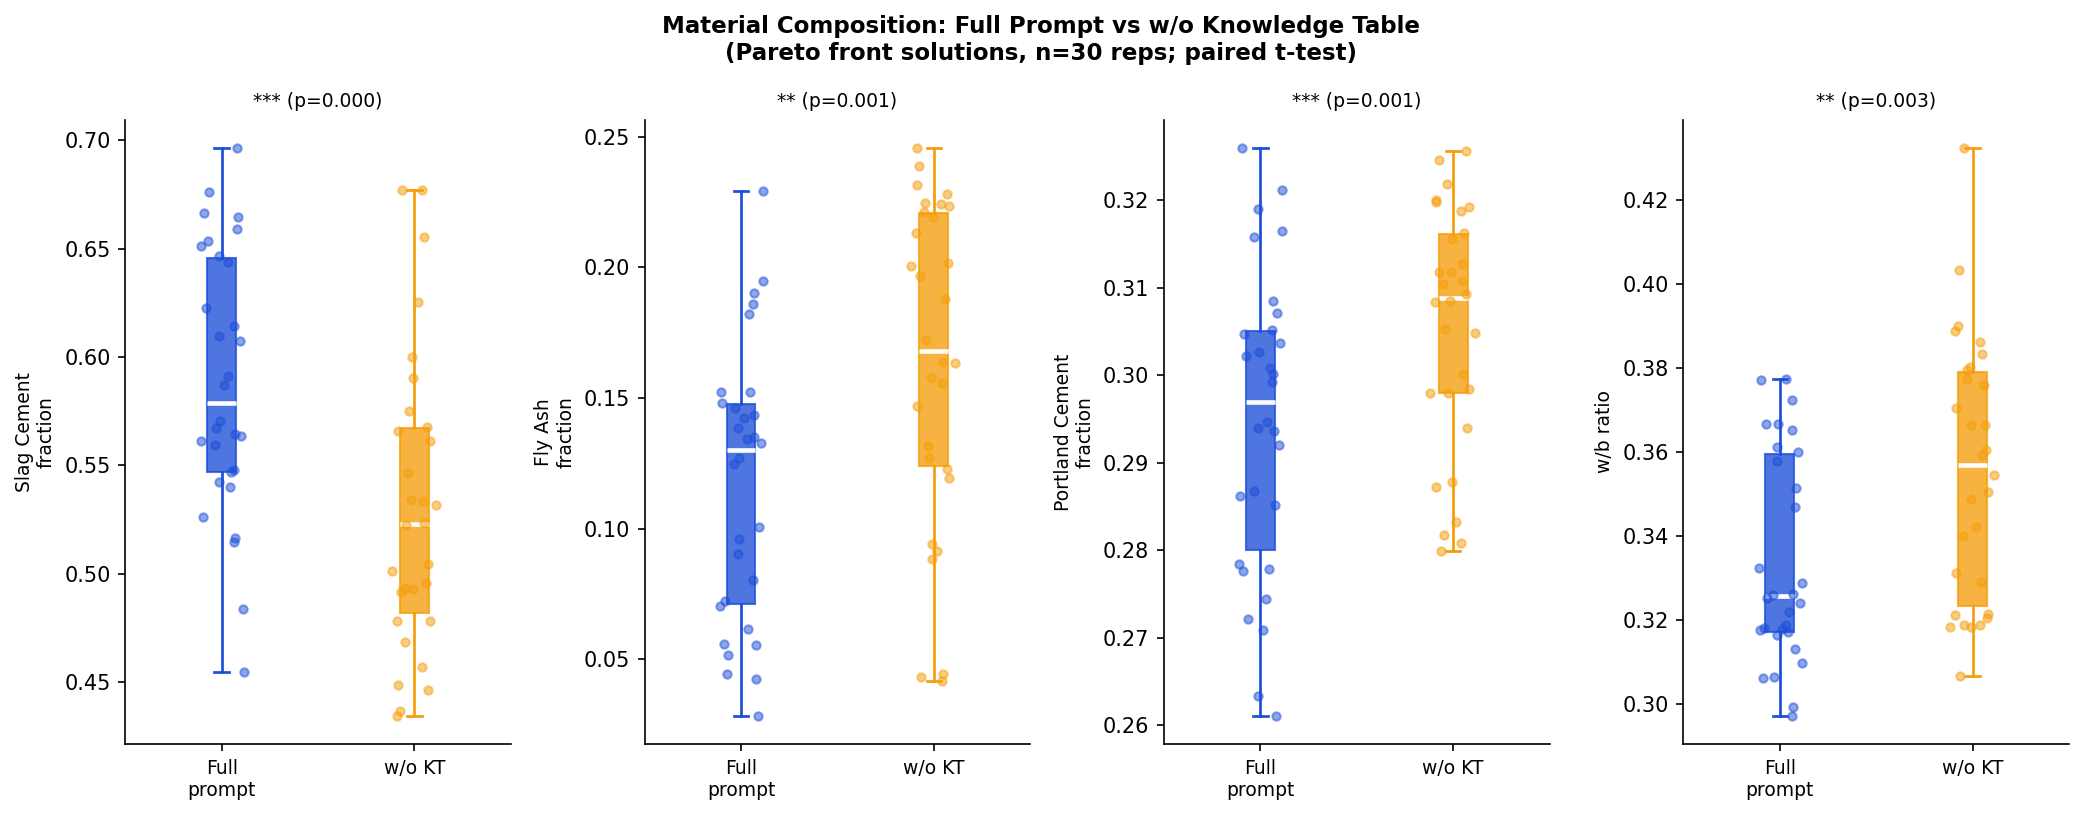
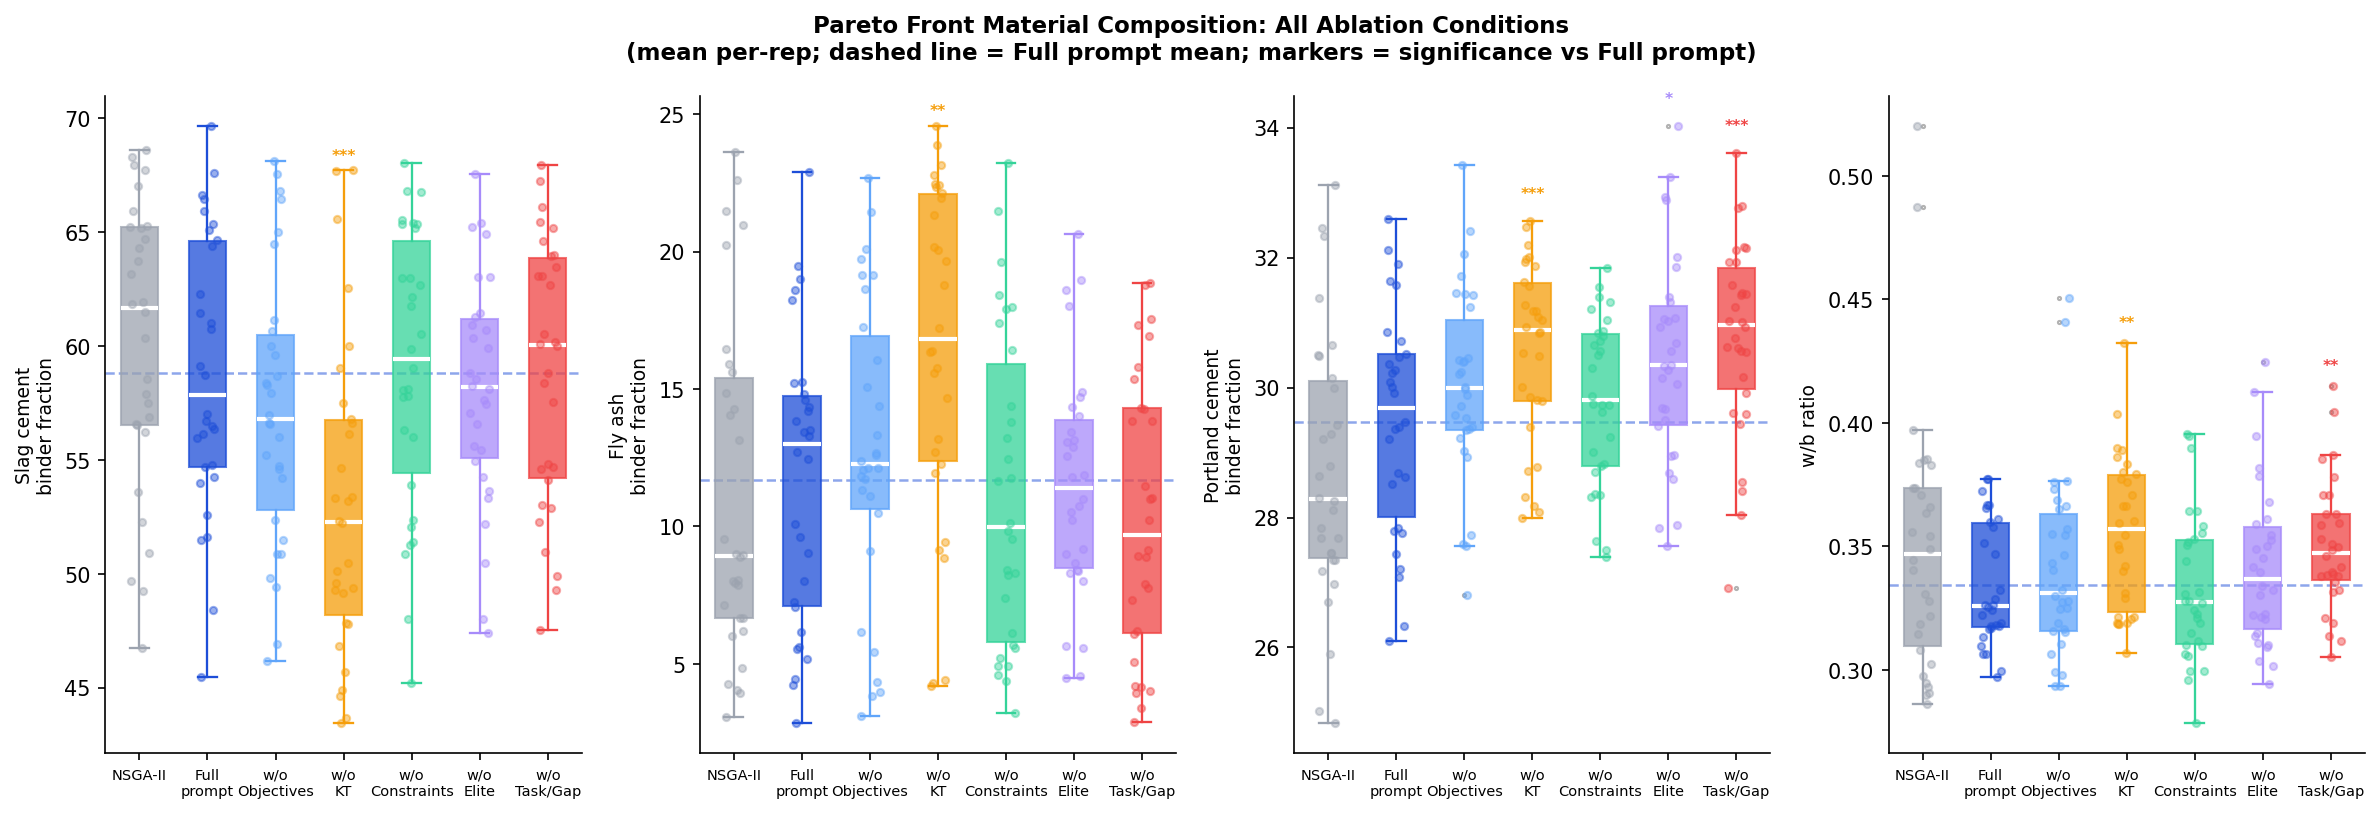
Expand Step 4.2 composition table to all ablation conditions
README: add all 7 conditions (NSGA-II, full, w/o obj/kt/con/elite/task)
to the material composition table with significance vs full prompt.
analyze_step42.py: regenerate composition figure as grouped box plot
showing SC%, FA%, PC%, w/b for every condition side by side.

diff --git a/analyze_step42.py b/analyze_step42.py
@@ -119,35 +119,37 @@ print(df_table.to_string(index=False))
 print(f"Saved step42_dhv_table.csv\n")
 
 # ══════════════════════════════════════════════════════════════════════════════
-# 2. Material composition: full vs w/o KT
+# 2. Material composition: all conditions
 # ══════════════════════════════════════════════════════════════════════════════
-MIX_VARS   = ["PC", "FA", "SC", "FAGG", "CAGG", "WATER"]
-MIX_LABELS = {
-    "PC":    "Portland Cement",
-    "FA":    "Fly Ash",
-    "SC":    "Slag Cement",
-    "FAGG":  "Fine Aggregate",
-    "CAGG":  "Coarse Aggregate",
-    "WATER": "Water",
+
+COMP_CONDITIONS = {
+    "NSGA-II":         CONDITIONS["base"],
+    "Full prompt":     CONDITIONS["full"],
+    "w/o Objectives":  CONDITIONS["no_obj"],
+    "w/o KT":          CONDITIONS["no_kt"],
+    "w/o Constraints": CONDITIONS["no_con"],
+    "w/o Elite":       CONDITIONS["no_elite"],
+    "w/o Task/Gap":    CONDITIONS["no_task"],
+}
+COMP_COLORS = {
+    "NSGA-II":         "#9CA3AF",
+    "Full prompt":     "#1D4ED8",
+    "w/o Objectives":  "#60A5FA",
+    "w/o KT":          "#F59E0B",
+    "w/o Constraints": "#34D399",
+    "w/o Elite":       "#A78BFA",
+    "w/o Task/Gap":    "#EF4444",
 }
 
-pfs_full  = load_pareto_fronts(CONDITIONS["full"])
-pfs_nokt  = load_pareto_fronts(CONDITIONS["no_kt"])
-
-def binder_stats(pf_list, var):
-    """Mean proportion of <var> in binder (PC+FA+SC) per rep, then across reps."""
+def binder_frac(pf_list, var):
     vals = []
     for pf in pf_list:
         binder = pf["PC"] + pf["FA"] + pf["SC"]
-        if var in ["PC", "FA", "SC"]:
-            prop = (pf[var] / binder.replace(0, np.nan)).dropna()
-        else:
-            prop = pf[var]
+        prop = (pf[var] / binder.replace(0, np.nan)).dropna()
         if len(prop):
             vals.append(prop.mean())
     return np.array(vals)
 
-# Also compute w/b ratio
 def wb_ratio(pf_list):
     vals = []
     for pf in pf_list:
@@ -157,60 +159,86 @@ def wb_ratio(pf_list):
             vals.append(wb.mean())
     return np.array(vals)
 
-print("Material composition comparison (full vs w/o KT):")
-results_comp = {}
-for var in ["SC", "FA", "PC"]:
-    full_v = binder_stats(pfs_full, var)
-    nokt_v = binder_stats(pfs_nokt, var)
-    n = min(len(full_v), len(nokt_v))
-    t, p = stats.ttest_rel(full_v[:n], nokt_v[:n])
-    results_comp[var] = (full_v, nokt_v, p)
-    print(f"  {var} binder frac: full={full_v.mean():.3f}  no_kt={nokt_v.mean():.3f}  p={p:.4f}")
+comp_data = {}
+for name, tpl in COMP_CONDITIONS.items():
+    pfs = load_pareto_fronts(tpl)
+    comp_data[name] = {
+        "SC": binder_frac(pfs, "SC"),
+        "FA": binder_frac(pfs, "FA"),
+        "PC": binder_frac(pfs, "PC"),
+        "wb": wb_ratio(pfs),
+    }
 
-wb_full = wb_ratio(pfs_full)
-wb_nokt = wb_ratio(pfs_nokt)
-n = min(len(wb_full), len(wb_nokt))
-t_wb, p_wb = stats.ttest_rel(wb_full[:n], wb_nokt[:n])
-print(f"  w/b ratio:      full={wb_full.mean():.3f}  no_kt={wb_nokt.mean():.3f}  p={p_wb:.4f}")
+ref = comp_data["Full prompt"]
+
+print("Material composition (all conditions):")
+def sig(p): return "***" if p < 0.001 else ("**" if p < 0.01 else ("*" if p < 0.05 else "ns"))
+for name, d in comp_data.items():
+    sc = d["SC"].mean()*100; fa = d["FA"].mean()*100
+    pc = d["PC"].mean()*100; wb = d["wb"].mean()
+    if name in ("Full prompt", "NSGA-II"):
+        print(f"  {name:<22}: SC={sc:.1f}%  FA={fa:.1f}%  PC={pc:.1f}%  w/b={wb:.3f}")
+    else:
+        n = min(len(d["SC"]), len(ref["SC"]))
+        _, p_sc = stats.ttest_rel(d["SC"][:n], ref["SC"][:n])
+        _, p_fa = stats.ttest_rel(d["FA"][:n], ref["FA"][:n])
+        _, p_pc = stats.ttest_rel(d["PC"][:n], ref["PC"][:n])
+        _, p_wb = stats.ttest_rel(d["wb"][:n], ref["wb"][:n])
+        print(f"  {name:<22}: SC={sc:.1f}%({sig(p_sc)})  FA={fa:.1f}%({sig(p_fa)})  PC={pc:.1f}%({sig(p_pc)})  w/b={wb:.3f}({sig(p_wb)})")
 print()
 
-fig, axes = plt.subplots(1, 4, figsize=(14, 5.5))
-plot_vars = [("SC", "Slag Cement\nfraction"), ("FA", "Fly Ash\nfraction"),
-             ("PC", "Portland Cement\nfraction"), ("wb", "w/b ratio")]
+# grouped bar chart: 4 properties × 7 conditions
+prop_keys   = ["SC", "FA", "PC", "wb"]
+prop_labels = ["Slag cement\nbinder fraction", "Fly ash\nbinder fraction",
+               "Portland cement\nbinder fraction", "w/b ratio"]
+prop_scale  = [100, 100, 100, 1]   # SC/FA/PC as %, wb as raw
 
-for ax, (var, ylabel) in zip(axes, plot_vars):
-    if var == "wb":
-        d_full, d_nokt = wb_full, wb_nokt
-        p_val = p_wb
-    else:
-        d_full, d_nokt, p_val = results_comp[var]
+cond_names = list(COMP_CONDITIONS.keys())
+x = np.arange(len(cond_names))
+width = 0.6
 
-    bp = ax.boxplot([d_full, d_nokt], patch_artist=True,
-                    medianprops=dict(color="white", lw=2.2),
-                    flierprops=dict(marker=".", ms=4, alpha=0.4),
-                    whiskerprops=dict(lw=1.3), capprops=dict(lw=1.3))
-    colors = ["#1D4ED8", "#F59E0B"]
-    for patch, c in zip(bp["boxes"], colors):
-        patch.set_facecolor(c); patch.set_alpha(0.78); patch.set_edgecolor(c)
-    for wh, c in zip(bp["whiskers"], [c for c in colors for _ in range(2)]):
-        wh.set_color(c)
-    for cap, c in zip(bp["caps"], [c for c in colors for _ in range(2)]):
-        cap.set_color(c)
+fig, axes = plt.subplots(1, 4, figsize=(16, 5.5), sharey=False)
+rng = np.random.default_rng(42)
 
-    rng = np.random.default_rng(42)
-    for i, (arr, c) in enumerate(zip([d_full, d_nokt], colors)):
-        ax.scatter(i+1+rng.uniform(-0.12, 0.12, len(arr)), arr,
-                   s=16, color=c, alpha=0.50, zorder=3)
+for ax, prop, ylabel, scale in zip(axes, prop_keys, prop_labels, prop_scale):
+    ref_val = comp_data["Full prompt"][prop].mean() * scale
+    ax.axhline(ref_val, color="#1D4ED8", lw=1.2, ls="--", alpha=0.5, zorder=1)
 
-    sig_str = "***" if p_val < 0.001 else ("**" if p_val < 0.01 else ("*" if p_val < 0.05 else "ns"))
-    ax.set_xticks([1, 2])
-    ax.set_xticklabels(["Full\nprompt", "w/o KT"], fontsize=9)
+    for i, name in enumerate(cond_names):
+        d   = comp_data[name][prop]
+        col = COMP_COLORS[name]
+        mean_v = d.mean() * scale
+
+        bp = ax.boxplot([d * scale], positions=[i], widths=0.55, patch_artist=True,
+                        medianprops=dict(color="white", lw=2.0),
+                        flierprops=dict(marker=".", ms=3, alpha=0.3),
+                        whiskerprops=dict(lw=1.1), capprops=dict(lw=1.1))
+        bp["boxes"][0].set_facecolor(col); bp["boxes"][0].set_alpha(0.75)
+        bp["boxes"][0].set_edgecolor(col)
+        bp["whiskers"][0].set_color(col); bp["whiskers"][1].set_color(col)
+        bp["caps"][0].set_color(col);     bp["caps"][1].set_color(col)
+
+        jitter = rng.uniform(-0.15, 0.15, len(d))
+        ax.scatter(i + jitter, d * scale, s=12, color=col, alpha=0.45, zorder=3)
+
+        # significance marker vs Full prompt
+        if name not in ("Full prompt", "NSGA-II"):
+            n  = min(len(d), len(ref[prop]))
+            _, p = stats.ttest_rel(d[:n], ref[prop][:n])
+            s  = sig(p)
+            if s != "ns":
+                ypos = (d * scale).max() + (scale * 0.005 if scale == 1 else 0.3)
+                ax.text(i, ypos, s, ha="center", va="bottom", fontsize=7.5,
+                        color=col, fontweight="bold")
+
+    ax.set_xticks(x)
+    ax.set_xticklabels([n.replace(" ", "\n") for n in cond_names], fontsize=7)
     ax.set_ylabel(ylabel, fontsize=9)
-    ax.set_title(f"{sig_str} (p={p_val:.3f})", fontsize=9)
     ax.spines["top"].set_visible(False); ax.spines["right"].set_visible(False)
 
-fig.suptitle("Material Composition: Full Prompt vs w/o Knowledge Table\n"
-             "(Pareto front solutions, n=30 reps; paired t-test)", fontsize=11, fontweight="bold")
+fig.suptitle("Pareto Front Material Composition: All Ablation Conditions\n"
+             "(mean per-rep; dashed line = Full prompt mean; markers = significance vs Full prompt)",
+             fontsize=11, fontweight="bold")
 plt.tight_layout()
 plt.savefig(OUTDIR / "step42_composition.png", dpi=150, bbox_inches="tight")
 plt.close()
@@ -222,12 +250,13 @@ print("Saved step42_composition.png")
 fu_full   = load_frac_useful(CONDITIONS["full"])
 fu_noelite = load_frac_useful(CONDITIONS["no_elite"])
 
-div_base_arr   = np.array([pairwise_div(pd.read_csv(BASE / CONDITIONS["base"].format(r) / "pareto_front.csv"))
-                            for r in range(1, REPS+1)
-                            if (BASE / CONDITIONS["base"].format(r) / "pareto_front.csv").exists()])
-div_full_arr   = np.array([pairwise_div(pf) for pf in pfs_full])
-div_noelite_arr = np.array([pairwise_div(pf)
-                             for pf in load_pareto_fronts(CONDITIONS["no_elite"])])
+pfs_base_   = load_pareto_fronts(CONDITIONS["base"])
+pfs_full_   = load_pareto_fronts(CONDITIONS["full"])
+pfs_noelite_= load_pareto_fronts(CONDITIONS["no_elite"])
+
+div_base_arr    = np.array([pairwise_div(pf) for pf in pfs_base_])
+div_full_arr    = np.array([pairwise_div(pf) for pf in pfs_full_])
+div_noelite_arr = np.array([pairwise_div(pf) for pf in pfs_noelite_])
 
 print("Elite effect:")
 n_fu = min(len(fu_full), len(fu_noelite))

diff --git a/README.md b/README.md
@@ -338,14 +338,19 @@ The Knowledge Table encodes GWP emission factors, strength mechanisms, and a two
 
 ![Material composition: full prompt vs w/o KT](results/figures/step42_composition.png)
 
-| Mix property | Full prompt | w/o KT | Δ | p |
-|:--|:--:|:--:|:--:|:--:|
-| Slag cement (SC) binder fraction | 58.8% | 53.0% | −5.8 pp | <0.001 (***) |
-| Fly ash (FA) binder fraction | 11.7% | 16.4% | +4.7 pp | 0.001 (**) |
-| Portland cement (PC) fraction | 29.5% | 30.6% | +1.1 pp | <0.001 (***) |
-| w/b ratio | 0.334 | 0.355 | +0.021 | 0.003 (**) |
+Pareto-front composition (mean per-replicate, vs Full prompt; paired t-test):
 
-Without the Knowledge Table, the LLM uses less slag cement (the best low-GWP/high-strength substitute for PC) and higher w/b ratios. This demonstrates that KT provides actionable domain knowledge that the LLM cannot reliably infer from objectives and constraints alone.
+| Condition | SC% | FA% | PC% | w/b |
+|:--|:--:|:--:|:--:|:--:|
+| NSGA-II baseline | 60.2% | 11.1% | 28.7% | 0.350 |
+| **Full prompt** | **58.8%** | **11.7%** | **29.5%** | **0.334** |
+| w/o Objectives | 57.2% (ns) | 12.8% (ns) | 30.0% (ns) | 0.342 (ns) |
+| **w/o Knowledge Table** | **53.0% (***)** | **16.4% (**)** | **30.6% (***)** | **0.355 (**)** |
+| w/o Constraints | 59.0% (ns) | 11.2% (ns) | 29.8% (ns) | 0.333 (ns) |
+| w/o Elite | 58.0% (ns) | 11.5% (ns) | 30.4% (*) | 0.342 (ns) |
+| w/o Task/Gap | 58.9% (ns) | 10.3% (ns) | 30.8% (***) | 0.350 (**) |
+
+Removing the Knowledge Table is the **only condition that significantly shifts the binder strategy**: SC drops 5.8 pp, FA rises 4.7 pp, and w/b increases 0.021 — all significant at p < 0.01. Removing any other prompt section leaves the material composition statistically unchanged. This confirms that KT is the sole source of actionable mix-design domain knowledge in the prompt: the LLM cannot infer the slag-first, low-w/b strategy from objectives or constraints alone.
 
 **Elite solutions effect on LLM proposal quality:**
 
